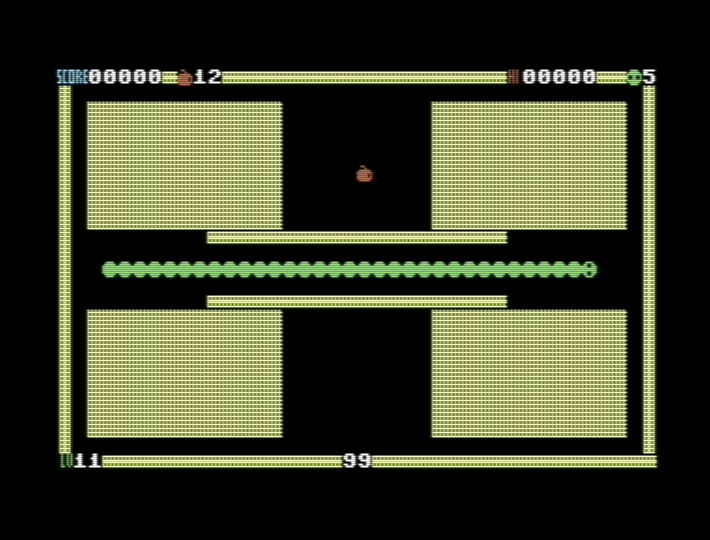
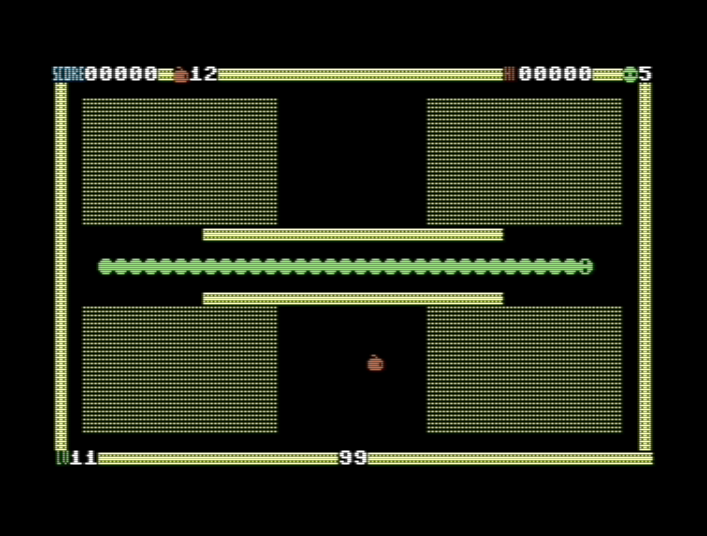
Transparent walls

diff --git a/src/games/snake/main.c b/src/games/snake/main.c
@@ -60,6 +60,8 @@ extern Image APPLE_IMAGE;
 
 extern Image CENTRAL_BRICK_IMAGE;
 
+extern Image TRANSPARENT_BRICK_IMAGE;
+
 extern Image MINE_IMAGE;
 
 extern Image LEFT_MINE_IMAGE;
@@ -322,10 +324,10 @@ static uint8_t level_walls[] =
         XSize/4, YSize/2+2,XSize/2,
     0,
     4,
-        2,2,XSize/3,YSize/3,WALL,
-        2,YSize-2-YSize/3,XSize/3,YSize/3,WALL,
-        XSize-2-XSize/3,YSize-2-YSize/3,XSize/3,YSize/3,WALL,
-        XSize-2-XSize/3,2,XSize/3,YSize/3,WALL,
+        2,2,XSize/3,YSize/3,TRANSPARENT,
+        2,YSize-2-YSize/3,XSize/3,YSize/3,TRANSPARENT,
+        XSize-2-XSize/3,YSize-2-YSize/3,XSize/3,YSize/3,TRANSPARENT,
+        XSize-2-XSize/3,2,XSize/3,YSize/3,TRANSPARENT,
 // level 12
     1,
         2,YSize/2-1,XSize-4,
@@ -407,10 +409,12 @@ void build_vertical_wall(uint8_t x, uint8_t y, uint8_t length)
     DRAW_VERTICAL_LINE(x,y,length);
 }
 
+
 void build_box_wall(uint8_t x, uint8_t y, uint8_t x_length, uint8_t y_length, uint8_t type)
 {
     uint8_t i;
     uint8_t j;
+    Image *image_ptr;
     
     for(i=0;i<x_length;++i)
     {
@@ -419,12 +423,18 @@ void build_box_wall(uint8_t x, uint8_t y, uint8_t x_length, uint8_t y_length, ui
             map[x+i][y+j]=type;
             if(type==WALL)
             {
-                _XLIB_DRAW(x+i,y+j,&CENTRAL_BRICK_IMAGE);
+                image_ptr = &CENTRAL_BRICK_IMAGE;
+            }
+            else if (type==DEADLY)
+            {
+                image_ptr = &MINE_IMAGE;
             }
             else
             {
-                _XLIB_DRAW(x+i,y+j,&MINE_IMAGE);
+                image_ptr = &TRANSPARENT_BRICK_IMAGE;
             }
+            _XLIB_DRAW(x+i,y+j,image_ptr);
+
         }
     }
 }

diff --git a/src/games/snake/move_snake.h b/src/games/snake/move_snake.h
@@ -17,7 +17,7 @@
     ((x)<1 || ((x)>=XSize-1) || (y)<1 || ((y)>=YSize-1))
 
 #define hits_wall(x,y) \
-    (on_borders(x,y) || (map[x][y]==WALL))
+    (on_borders(x,y) || (map[x][y]>=WALL))
 
 #define hits_deadly_item(x,y) \
     (map[x][y]==DEADLY)

diff --git a/src/games/snake/snake.h b/src/games/snake/snake.h
@@ -14,6 +14,7 @@
 #define BONUS 2
 #define APPLE 3
 #define WALL  4
+#define TRANSPARENT 5
 
 #define NUMBER_OF_LEVELS 16
 
